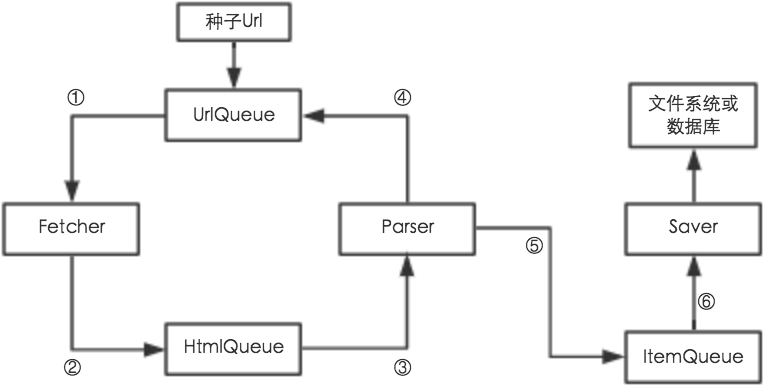
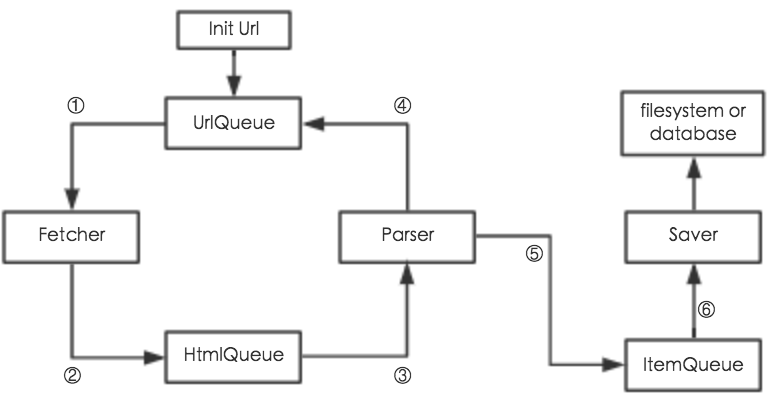
update README.md, and update code(using typehints), version 1.9.1

diff --git a/spider/concurrent/concur_async.py b/spider/concurrent/concur_async.py
@@ -33,6 +33,7 @@ class BaseAsyncPool(BasePool):
 
         self.loop = loop or asyncio.get_event_loop()            # event_loop from parameter or call get_event_loop()
         self.queue = asyncio.PriorityQueue(loop=self.loop)      # (priority, url, keys, deep, repeat)
+
         self.start_time = None              # start time of this pool
         return
 
@@ -139,7 +140,7 @@ class AsyncPool(BaseAsyncPool):
                 # fetch the content of a url ================================================================
                 fetch_result, content = await self.fetch(session, url, keys, repeat)
                 if fetch_result > 0:
-                    self.update_number_dict(TPEnum.URL_FETCH, +1)
+                    self.update_number_dict(TPEnum.URL_FETCH, +1)                   # =======================
 
                     # parse the content of a url ============================================================
                     self.update_number_dict(TPEnum.HTM_NOT_PARSE, +1)
@@ -147,7 +148,7 @@ class AsyncPool(BaseAsyncPool):
                     self.update_number_dict(TPEnum.HTM_NOT_PARSE, -1)
 
                     if parse_result > 0:
-                        self.update_number_dict(TPEnum.HTM_PARSE, +1)
+                        self.update_number_dict(TPEnum.HTM_PARSE, +1)               # =======================
 
                         # add new task to self.queue
                         for _url, _keys, _priority in url_list:
@@ -160,8 +161,7 @@ class AsyncPool(BaseAsyncPool):
                             self.update_number_dict(TPEnum.ITEM_NOT_SAVE, -1)
 
                             if save_result:
-                                self.update_number_dict(TPEnum.ITEM_SAVE, +1)
-
+                                self.update_number_dict(TPEnum.ITEM_SAVE, +1)       # =======================
                 elif fetch_result == 0:
                     self.add_a_task(TPEnum.URL_FETCH, (priority+1, url, keys, deep, repeat+1))
                 else:
@@ -180,7 +180,7 @@ class AsyncPool(BaseAsyncPool):
         logging.warning("Worker[%s] end", index)
         return
 
-    async def fetch(self, session, url, keys, repeat):
+    async def fetch(self, session, url: str, keys: object, repeat: int) -> (int, object):
         """
         fetch the content of a url, must "try, expect" and don't change parameters and return
         :return (fetch_result, content): fetch_result can be -1(fetch failed), 0(need repeat), 1(fetch success), content can be anything
@@ -205,7 +205,7 @@ class AsyncPool(BaseAsyncPool):
         logging.debug("Fetcher end: fetch_result=%s, url=%s", fetch_result, url)
         return fetch_result, content
 
-    async def parse(self, priority, url, keys, deep, content):
+    async def parse(self, priority: int, url: str, keys: object, deep: int, content: object) -> (int, list, list):
         """
         parse the content of a url, must "try, except" and don't change parameters and return
         :return (parse_result, url_list, save_list): parse_result can be -1(parse failed), 1(parse success)
@@ -216,7 +216,7 @@ class AsyncPool(BaseAsyncPool):
         try:
             *_, cur_html = content
 
-            url_list = []
+            parse_result, url_list = 1, []
             if (self.max_deep < 0) or (deep < self.max_deep):
                 a_list = re.findall(r"<a[\w\W]+?href=\"(?P<url>[\w\W]{5,}?)\"[\w\W]*?>[\w\W]+?</a>", cur_html, flags=re.IGNORECASE)
                 url_list = [(_url, keys, priority + 1) for _url in [get_url_legal(href, url) for href in a_list]]
@@ -225,8 +225,6 @@ class AsyncPool(BaseAsyncPool):
 
             title = re.search(r"<title>(?P<title>[\w\W]+?)</title>", cur_html, flags=re.IGNORECASE)
             save_list = [(url, title.group("title"), datetime.datetime.now()), ] if title else []
-
-            parse_result = 1
         except Exception as excep:
             parse_result, url_list, save_list = -1, [], []
             logging.error("Parser error: %s, priority=%s, keys=%s, deep=%s, url=%s", excep, priority, keys, deep, url)
@@ -234,7 +232,7 @@ class AsyncPool(BaseAsyncPool):
         logging.debug("Parser end: parse_result=%s, len(url_list)=%s, len(save_list)=%s, url=%s", parse_result, len(url_list), len(save_list), url)
         return parse_result, url_list, save_list
 
-    async def save(self, url, keys, item):
+    async def save(self, url: str, keys: object, item: object) -> bool:
         """
         save the item of a url, must "try, except" and don't change parameters and return
         :return save_result: True or False

diff --git a/spider/instances/inst_parse.py b/spider/instances/inst_parse.py
@@ -7,7 +7,7 @@ inst_parse.py by xianhu
 import re
 import logging
 import datetime
-from ..utilities import get_url_legal, params_chack, return_check
+from ..utilities import get_url_legal
 
 
 class Parser(object):
@@ -22,8 +22,7 @@ class Parser(object):
         self.max_deep = max_deep    # default: 0, if -1, spider will not stop until all urls are fetched
         return
 
-    @params_chack(object, int, str, object, int, object)
-    def working(self, priority, url, keys, deep, content):
+    def working(self, priority: int, url: str, keys: object, deep: int, content: object) -> (int, list, list):
         """
         working function, must "try, except" and don't change parameters and return
         :return (parse_result, url_list, save_list): parse_result can be -1(parse failed), 1(parse success)
@@ -40,8 +39,7 @@ class Parser(object):
         logging.debug("%s end: parse_result=%s, len(url_list)=%s, len(save_list)=%s, url=%s", self.__class__.__name__, parse_result, len(url_list), len(save_list), url)
         return parse_result, url_list, save_list
 
-    @return_check(int, (tuple, list), (tuple, list))
-    def htm_parse(self, priority, url, keys, deep, content):
+    def htm_parse(self, priority: int, url: str, keys: object, deep: int, content: object) -> (int, list, list):
         """
         parse the content of a url, you can rewrite this function, parameters and return refer to self.working()
         """

diff --git a/spider/instances/inst_fetch.py b/spider/instances/inst_fetch.py
@@ -8,7 +8,7 @@ import time
 import random
 import logging
 import requests
-from ..utilities import make_random_useragent, params_chack, return_check
+from ..utilities import make_random_useragent
 
 
 class Fetcher(object):
@@ -24,8 +24,7 @@ class Fetcher(object):
         self.sleep_time = sleep_time    # default: 0, sleeping time after a fetching for a url
         return
 
-    @params_chack(object, str, object, int)
-    def working(self, url, keys, repeat):
+    def working(self, url: str, keys: object, repeat: int) -> (int, object):
         """
         working function, must "try, expect" and don't change parameters and return
         :return (fetch_result, content): fetch_result can be -1(fetch failed), 0(need repeat), 1(fetch success), content can be anything
@@ -46,8 +45,7 @@ class Fetcher(object):
         logging.debug("%s end: fetch_result=%s, url=%s", self.__class__.__name__, fetch_result, url)
         return fetch_result, content
 
-    @return_check(int, object)
-    def url_fetch(self, url, keys, repeat):
+    def url_fetch(self, url: str, keys: object, repeat: int) -> (int, object):
         """
         fetch the content of a url, you can rewrite this function, parameters and return refer to self.working()
         """

diff --git a/spider/instances/inst_save.py b/spider/instances/inst_save.py
@@ -6,7 +6,6 @@ inst_save.py by xianhu
 
 import sys
 import logging
-from ..utilities import params_chack, return_check
 
 
 class Saver(object):
@@ -21,8 +20,7 @@ class Saver(object):
         self.save_pipe = save_pipe      # default: sys.stdout, also can be a file handler
         return
 
-    @params_chack(object, str, object, object)
-    def working(self, url, keys, item):
+    def working(self, url: str, keys: object, item: object) -> bool:
         """
         working function, must "try, except" and don't change parameters and return
         :return save_result: True or False
@@ -38,8 +36,7 @@ class Saver(object):
         logging.debug("%s end: save_result=%s, url=%s", self.__class__.__name__, save_result, url)
         return save_result
 
-    @return_check(bool)
-    def item_save(self, url, keys, item):
+    def item_save(self, url: str, keys: object, item: object) -> bool:
         """
         save the item of a url, you can rewrite this function, parameters and return refer to self.working()
         """

diff --git a/setup.py b/setup.py
@@ -8,7 +8,7 @@ from setuptools import setup, find_packages
 
 setup(
     name="spider",
-    version="1.9.0",
+    version="1.9.1",
     author="xianhu",
     keywords=["spider", "crawler"],
     packages=find_packages(exclude=("otherfiles", "test", "test.*", "demos_*")),

diff --git a/spider/utilities/__init__.py b/spider/utilities/__init__.py
@@ -7,5 +7,4 @@ define utilities for web_spider
 from .util_config import *
 from .util_fetch import *
 from .util_parse import *
-from .util_tools import *
 from .util_urlfilter import UrlFilter

diff --git a/README.md b/README.md
@@ -1,51 +1,44 @@
 # PSpider
 
-Python3下极为简洁的爬虫框架, A simple spider frame written by Python  
+A simple spider frame written by Python, which needs Python3.5+
 
-### 框架（spider）包含以下特性
-1. 支持多线程抓取、异步抓取两种抓取方式
-2. 框架尽量通用, 让使用者专注于业务本身, 而不用去考虑"并行"调度、数据同步等其他问题
-3. ~~支持分布式爬取策略（待完成）~~
-4. 定义了很多爬虫工作需要的工具类、工具函数, 比如UrlFilter类、param_check装饰器等
-5. 代码量较少, 易于阅读、理解和自定义等
+### Features of PSpider
+1. Support two crawlling mode: multi-threading mode and asyncio mode (using aiohttp)
+2. ~~Support distributed crawlliing mode (not finished)~~
+3. Define some utility functions and classes, for example: UrlFilter, make_random_useragent
+4. Cover every situation as far as possible, make users focus on business
+5. Fewer lines of code, easyer to read, understand and expand
 
-### 框架（spider）包含以下模块
-1. utilities module: 定义爬虫需要的工具类、工具函数等
-2. instances module: 定义多线程抓取过程中的fetcher抓取类、parser解析类、saver保存类
-3. abcbase module: 定义多线程爬虫、协程爬虫、分布式爬虫等需要的一些基类
-4. concurrent module: 定义多线程爬虫框架、异步爬虫框架, 并保证数据同步
-5. distributed module: 定义分布式爬虫框架（待完成）
+### Modules of PSpider
+1. utilities module: Define some utilities functions and utilities classes for spider
+2. instances module: Define classes of fetcher, parser, saver for multi-threading spider
+3. abcbase module: Define some base class for multi-threading spider and asyncio spider
+4. concurrent module: Define WebSpiderFrame of multi-threading mode and asyncio mode
+5. distributed module: Define WebSpiderFrame of distributed mode (not finished)
 
-### 框架抓取流程示意图
-1. 多线程抓取流程
+### Procedure of PSpider
+1. procedure of multi-threading spider  
 ![](otherfiles/threads.png)  
-①：Fetcher抓取类从UrlQueue中获取需要抓取的Url进行请求  
-②：请求得到的内容（自定义）放入HtmlQueue中, 供Parser解析类获取  
-③：Parser解析类从HtmlQueue中获取需要解析的内容进行解析  
-④：解析得到的新的待抓取Url放入UrlQueue中, 供Fetcher抓取类获取  
-⑤：解析得到的需要保存的内容（自定义）放入ItemQueue中, 供Saver保存类获取  
-⑥：Saver保存类从ItemQueue中获取需要保存的内容, 将其写入到文件系统或数据库  
+①: Fetcher gets url from UrlQueue, and makes request based on this url  
+②: Put the result of ① to HtmlQueue, and make Parser can get it  
+③: Parser gets item from HtmlQueue, and parses it to get new urls and saved items  
+④: Put the new urls to UrlQueue, and make Fetcher can get it  
+⑤: Put the saved items to ItemQueue, and make Saver can get it  
+⑥: Saver gets item from ItemQueue, and saves it to filesystem or database  
 
-2. 协程抓取流程  
-协程抓取流程类似于多线程抓取流程, 只不过用"协程"替代了多线程。  
-协程框架中只有一个队列Queue, 用于保存待抓取的Url。  
-Fetcher类从队列中获取Url进行请求, 并将结果给到Parser类。  
-Parser类从请求的内容中获取新的Url和待保存的内容, 分别给到队列Queue和Saver类。  
-Saver类保存需要保存的内容。  
-重复上述过程即可。  
+2. procedure of asyncio spider  
+Similar with multi-threading spider. The only difference is using "coroutine" instead of "multi-threads"  
 
-### 框架开始教程
+### Tutorials of PSpider
+**Installation: you'd better use the first method**  
+（1）Copy the "spider" directory to your project directory, and `import spider`  
+（2）Install spider to your python system using `python3 setup.py install`  
 
-**安装: 以下两种方法均可, 建议使用第一种**  
-（1）直接将"spider"文件夹拷贝到项目所在目录, 然后新建Py文件并引入spider即可  
-（2）利用setup.py文件将该框架安装到Python的第三方库中: `python3 setup.py install`  
-
-**开始使用多线程爬虫: 以抓取豆瓣电影中tag为"爱情"的电影数据为例**  
-（1）引入spider库 `import spider`  
-（2）继承spider.Fetcher类, 构造MovieFetcher抓取类, 并重写url_fetch函数  
+**Getting multi-threading spider started: make a demo crawling Douban Movies**  
+（1）Import spider `import spider`  
+（2）Make a new class of MovieFetcher based on spider.Fetcher, and rewrite functions of url_fetch  
 ```python
 class MovieFetcher(spider.Fetcher):
-
     def __init__(self, max_repeat=3, sleep_time=0):
         spider.Fetcher.__init__(self, max_repeat=max_repeat, sleep_time=sleep_time)    
         self.session = requests.Session()
@@ -57,64 +50,62 @@ class MovieFetcher(spider.Fetcher):
             return 1, resp.text
         resp.raise_for_status()
 ```
-（3）继承spider.Parser类, 构造MovieParser解析类, 并重写htm_parse函数
+（3）Make a new class of MovieParser based on spider.Parser, and rewrite functions of htm_parse
 ```python    
 class MovieParser(spider.Parser):
-
     def htm_parse(self, priority, url, keys, deep, content):
         url_list, save_list = [], []
         soup = BeautifulSoup(content, "html5lib")
 
-        # 根据keys决定content如何进行解析, 类似于回调函数的功能
+        # decide how to parse the content of url, based on 'keys'
         if keys[0] == "index":
-            # 获取列表页中所有的电影页面Url
+            # parse the index page and get new urls
+        
+            # get the new movie urls of detail page
             div_movies = soup.find_all("a", class_="nbg", title=True)
             url_list.extend([(item.get("href"), ("detail", keys[1]), 0) for item in div_movies])
 
-            # 获取列表页的下一页
+            # get next index page
             next_page = soup.find("span", class_="next")
             if next_page:
                 next_page_a = next_page.find("a")
                 if next_page_a:
                     url_list.append((next_page_a.get("href"), ("index", keys[1]), 1))
         else:
-            # 解析电影详情页, 并将结果放入到save_list中
+            # parse the detail page and get saved items
             content = soup.find("div", id="content")
             ......
             save_list.append(movie)
         return 1, url_list, save_list
 ```
-（4）构造多线程爬虫, 这里的Saver保存类直接使用框架自带的即可, 当然你也可以自定义
+（4）Create the multi-theading spider, set the start url and start this spider using 20 threads
 ```python
-# 利用MovieFetcher、MovieParser和Saver构造爬虫, 并传入框架自带的UrlFilter进行Url过滤
+# initial the WebSpider
 dou_spider = spider.WebSpider(MovieFetcher(), MovieParser(max_deep=-1), spider.Saver(), spider.UrlFilter())
 
-# 设置种子Url, 并设置Keys, Keys用于实现回调函数的功能
+# set the start url
 dou_spider.set_start_url("https://movie.douban.com/tag/%E7%88%B1%E6%83%85", ("index",), priority=1)
 
-# 开启多线程进行抓取工作, 并等待其结束
+# start this spider and wait for finishing
 dou_spider.start_work_and_wait_done(fetcher_num=20)
 ```
-一个简单的多线程爬虫就构造完成了, 框架本身完成线程调度、数据同步等功能, 使用者只需要专注于"抓取如何防止被封", "如何解析页面", "如何保存内容"即可。
 
-**开始使用协程爬虫: 以抓取360应用市场为例**  
+**Getting asyncio spider started: make a demo crawling zhushou.360**  
 ```python
-# 初始化WebSpiderAsync
-web_spider_async = spider.WebSpiderAsync(max_repeat=3, sleep_time=0, max_deep=1, save_pipe=open("out_async.txt", "w"), url_filter=spider.UrlFilter())
+# initial the WebSpiderAsync
+web_spider_async = spider.WebSpiderAsync(max_repeat=3, sleep_time=0, max_deep=1, url_filter=spider.UrlFilter())
 
-# 添加种子Url
+# set the start url
 web_spider_async.set_start_url("http://zhushou.360.cn/")
 
-# 开始抓取任务并等待其结束
-web_spider_async.start_work_and_wait_done(fetcher_num=10)
+# start this spider and wait for finishing
+web_spider_async.start_work_and_wait_done(fetcher_num=20)
 ```
-这里并没有自定义Fetcher、Parser和Saver流程, 而是全部使用了框架自带的, 会得到每一个页面的Url、Title和获取时间。  
-如果使用者需要自定义抓取、解析、保存过程, 则需要学习Python的异步库aiohttp, 并继承spider.WebSpiderAsync类, 重写里边的方法。
 
-### 项目包含以下Demo（由于时间原因, 不保证所有Demo可用）
-1. demos_yundama: 封装了yundama接口, 方便调用
-2. demos_nbastats: 抓取NBA官网上的所有球员数据
-3. demos_doubanmovies: 抓取全部豆瓣电影数据
-4. demos_dangdang: 利用selenium抓取当当网数据, 由@Foristkirito提供
+### Demo (Not all demos can be used directly because of the changing of PSpider)
+1. demos_yundama
+2. demos_nbastats
+3. demos_doubanmovies
+4. demos_dangdang
 
-### 欢迎大家在"Issues"中提出问题或者建议,也可以fork后提交"Pull requests"
+### If you have any questions or advices, you can commit "Issues" or "Pull requests"
